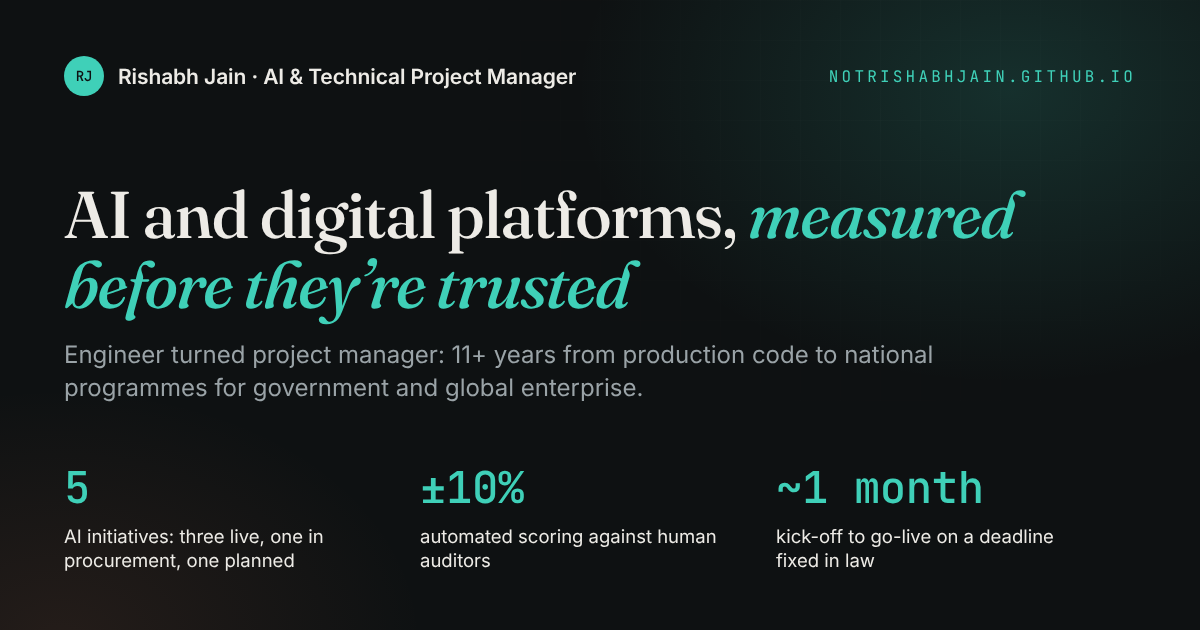
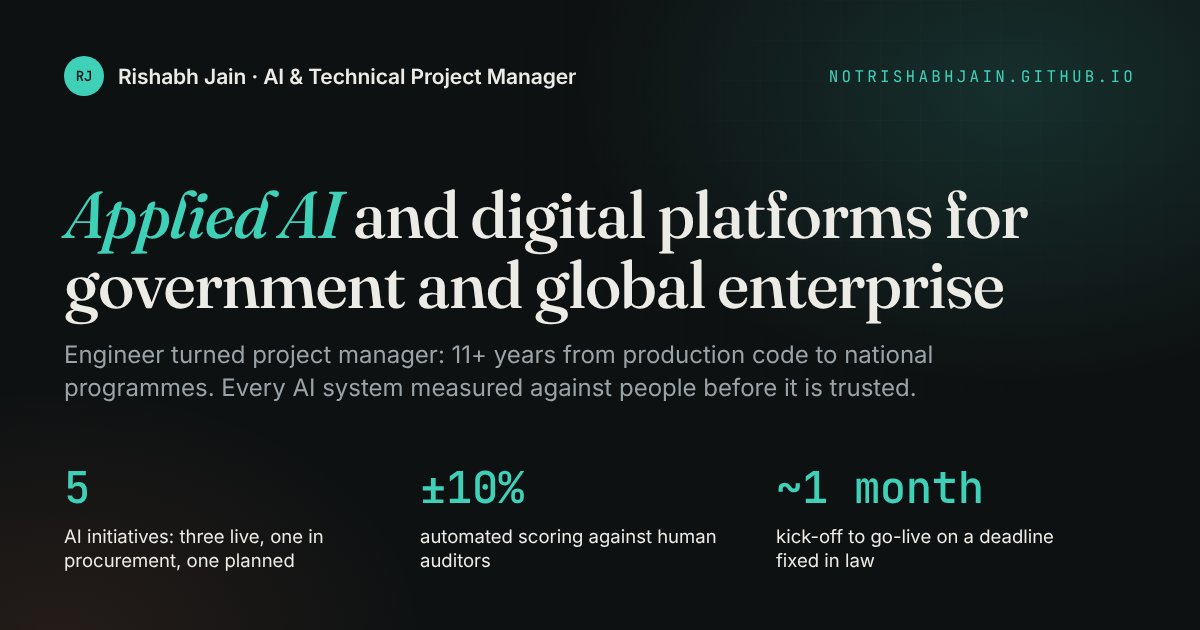
Home headline: "Applied AI and digital platforms for government and global enterprise"
The headline now states the field, the kind of work and who it is for, with
"Applied AI" in the accent colour. The sub-line keeps the evaluation point
("measure it against people before it is trusted") in fewer words, and the
headline size is tuned so the proof figures still show on the first screen.
The site share card uses the same headline.

Claude-Session: https://claude.ai/code/session_014FmYqefXi8HLQLzMs4WpDy

Changed region(s): [[0.0308, 0.3016, 0.8633, 0.5127], [0.185, 0.6032, 0.7708, 0.6333]]

diff --git a/index.html b/index.html
@@ -30,8 +30,8 @@
 <div class="hx-grid">
 <div>
 <div class="hx-eyebrow ent" style="--d:0ms"><i aria-hidden="true"></i>AI &amp; Technical Project Manager · GovTech and enterprise</div>
-<h1 class="ent" style="--d:90ms">AI and digital platforms, <em>measured before they’re trusted.</em></h1>
-<p class="hx-sub ent" style="--d:180ms"><b>Engineer turned project manager.</b> 11+ years from production code to national programmes. I lead AI and digital platforms for government and global enterprise, from problem framing, data and vendors to evaluation, governance and go-live.</p>
+<h1 class="ent" style="--d:90ms"><em>Applied AI</em> and digital platforms for government and global enterprise</h1>
+<p class="hx-sub ent" style="--d:180ms"><b>Engineer turned project manager</b>, 11+ years from production code to national programmes. I take AI from problem framing to go-live, and measure it against people before it is trusted.</p>
 <div class="hx-cta ent" style="--d:260ms"><a class="btn btn-primary" href="/work/">See the work <svg viewBox="0 0 16 16" fill="none" stroke="currentColor" stroke-width="2" stroke-linecap="round" stroke-linejoin="round" aria-hidden="true"><path d="M3 8h10M9 4l4 4-4 4"/></svg></a><a class="btn btn-ghost" href="/files/Rishabh_Jain_Resume.pdf" target="_blank" rel="noopener">Download résumé</a></div>
 <p class="hx-links ent" style="--d:320ms"><a href="/resume/">Résumé as text</a> · <a href="https://www.linkedin.com/in/notrishabhjain/" target="_blank" rel="noopener">LinkedIn</a> · Open to AI and technical programme roles · Delhi, relocation or remote</p>
 </div>

diff --git a/assets/css/site.css b/assets/css/site.css
@@ -669,7 +669,7 @@ details.more .more-body{padding:clamp(16px,3vw,28px);border-top:1px solid var(--
 .hx-grid{display:grid;grid-template-columns:minmax(0,1.3fr) minmax(0,1fr);gap:clamp(32px,5vw,64px);align-items:center}
 .hx-eyebrow{font-family:var(--font-mono);font-size:.74rem;letter-spacing:.18em;text-transform:uppercase;color:var(--hx-accent);display:flex;align-items:center;gap:10px;line-height:1.5}
 .hx-eyebrow i{flex:none;width:8px;height:8px;border-radius:50%;background:var(--hx-accent);box-shadow:0 0 0 5px rgba(63,208,184,.16)}
-.hx h1{font-family:var(--font-display);font-weight:450;font-size:clamp(2.4rem,4.7vw,4.1rem);line-height:1.04;letter-spacing:-.03em;margin:18px 0 0;color:#EDEBE6;text-wrap:balance}
+.hx h1{font-family:var(--font-display);font-weight:450;font-size:clamp(2.3rem,4.3vw,3.7rem);line-height:1.05;letter-spacing:-.03em;margin:18px 0 0;color:#EDEBE6;text-wrap:balance}
 .hx h1 em{font-style:italic;color:var(--hx-accent)}
 .hx-sub{margin-top:22px;font-size:clamp(1.03rem,1.4vw,1.18rem);line-height:1.62;color:var(--hx-soft);max-width:36em}
 .hx-sub b{color:#EDEBE6;font-weight:600}
